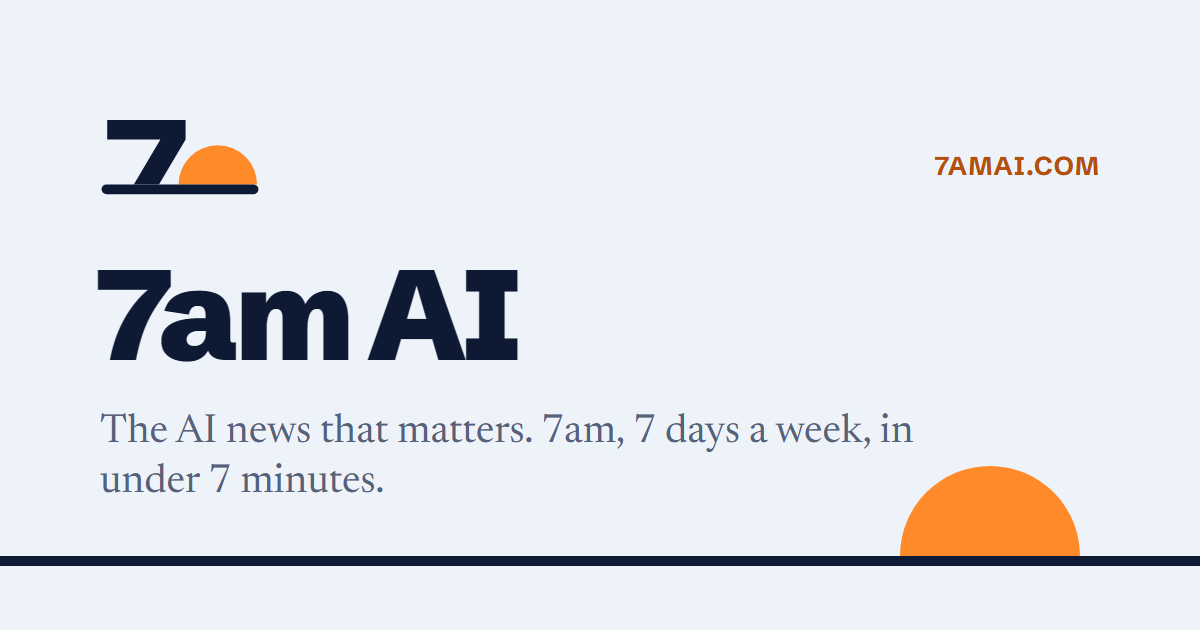
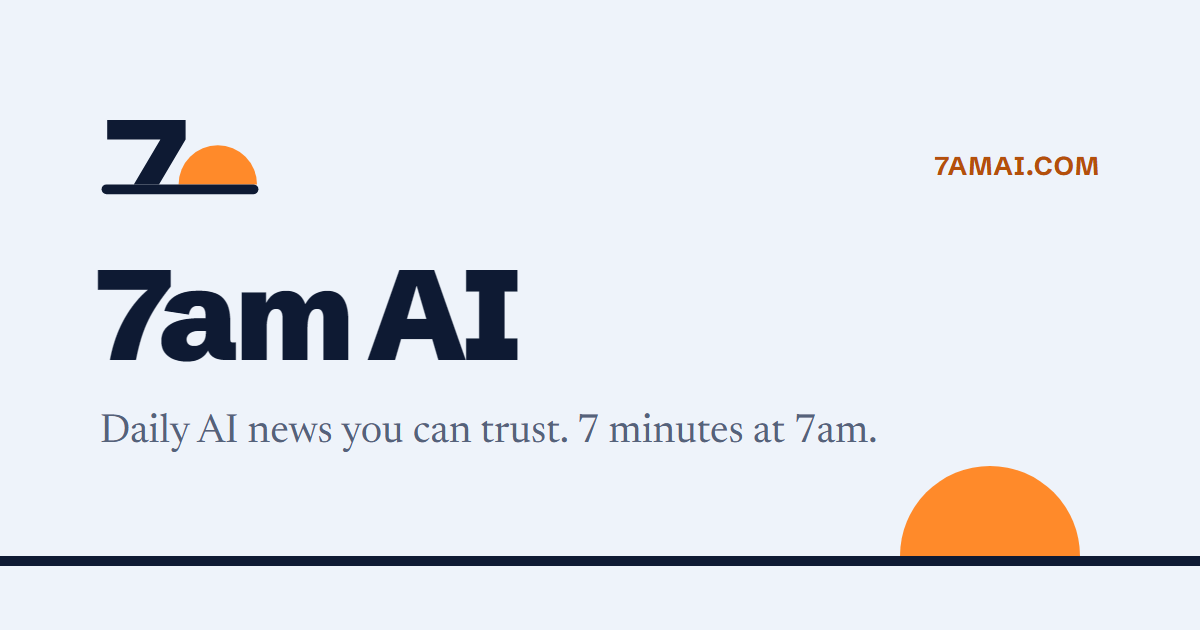
Ny one-liner: Daily AI news you can trust. 7 minutes at 7am.
Forside (signatur + overskrift + intro med status), titel og beskrivelse til Google på forsiden,
mailens bundlinje, delekort, velkomstsider og bekræftelsesmail. Låst i STRATEGI 1.1.

Changed region(s): [[0.0617, 0.6333, 0.7708, 0.7841]]

diff --git a/worker/src/index.js b/worker/src/index.js
@@ -194,8 +194,8 @@ async function verify(token, secret) {
 // --- bekræftelsesmailen (First Light, mail-sikre skrifttyper, natblå tekst på solorange) ---
 function confirmationMail(lang, link, site) {
   const t = lang === "da"
-    ? { subject: "Bekræft din tilmelding til 7am AI", h: "Bekræft din tilmelding", p: "Tryk på knappen, så får du de AI-nyheder, der betyder noget, kl. 7 hver morgen på under 7 minutter.", b: "Bekræft tilmelding", n: "Har du ikke bedt om det, kan du bare ignorere mailen. Linket virker i 3 døgn." }
-    : { subject: "Confirm your 7am AI subscription", h: "Confirm your subscription", p: "Tap the button and you will get the AI news that matters at 7am every morning, in under 7 minutes.", b: "Confirm subscription", n: "If you did not ask for this, just ignore this email. The link works for 3 days." };
+    ? { subject: "Bekræft din tilmelding til 7am AI", h: "Bekræft din tilmelding", p: "Tryk på knappen, så får du dagens AI-nyheder, du kan stole på, kl. 7 hver morgen på 7 minutter.", b: "Bekræft tilmelding", n: "Har du ikke bedt om det, kan du bare ignorere mailen. Linket virker i 3 døgn." }
+    : { subject: "Confirm your 7am AI subscription", h: "Confirm your subscription", p: "Tap the button and you will get daily AI news you can trust at 7am every morning, in 7 minutes.", b: "Confirm subscription", n: "If you did not ask for this, just ignore this email. The link works for 3 days." };
   const html = `<!DOCTYPE html><html><body style="margin:0;padding:0;background:#EEF3FA;"><table role="presentation" width="100%" cellpadding="0" cellspacing="0" style="background:#EEF3FA;"><tr><td align="center" style="padding:28px 12px;"><table role="presentation" width="100%" cellpadding="0" cellspacing="0" style="max-width:520px;background:#FFFFFF;border-radius:16px;font-family:'Helvetica Neue',Helvetica,Arial,sans-serif;color:#0E1A33;"><tr><td style="padding:26px 26px 8px;"><img src="${site}/assets/logo-mail.png" width="40" height="40" alt="" style="vertical-align:middle;border-radius:9px;"><span style="font-size:19px;font-weight:800;vertical-align:middle;margin-left:8px;">7am AI</span></td></tr><tr><td style="padding:12px 26px 26px;"><h1 style="font-size:24px;line-height:1.15;margin:0 0 10px;">${t.h}</h1><p style="font-family:Georgia,serif;font-size:16px;line-height:1.5;color:#55627A;margin:0 0 20px;">${t.p}</p><a href="${link}" style="display:inline-block;background:#FF8A2A;color:#0E1A33;text-decoration:none;font-weight:800;font-size:15px;padding:12px 22px;border-radius:999px;">${t.b}</a><p style="font-size:12px;line-height:1.5;color:#55627A;margin:20px 0 0;">${t.n}</p></td></tr></table></td></tr></table></body></html>`;
   const text = `${t.h}\n\n${t.p}\n\n${t.b}: ${link}\n\n${t.n}`;
   return { subject: t.subject, html, text };

diff --git a/.agent/email-template.html b/.agent/email-template.html
@@ -39,7 +39,7 @@
   <span style="font-size:13px;margin-left:12px;"><a href="{{DA_URL}}?ref=mail" style="color:#55627A;">Dansk udgave</a></span>
 </td></tr>
 </table>
-<p style="font-family:'Helvetica Neue',Helvetica,Arial,sans-serif;font-size:12px;color:#55627A;margin:16px 0 0;">7am AI · every day at 7am · under 7 minutes · <a href="{{SITE_URL}}?ref=mail" style="color:#55627A;">archive</a></p>
+<p style="font-family:'Helvetica Neue',Helvetica,Arial,sans-serif;font-size:12px;color:#55627A;margin:16px 0 0;">7am AI · Daily AI news you can trust. 7 minutes at 7am. · <a href="{{SITE_URL}}?ref=mail" style="color:#55627A;">archive</a></p>
 </td></tr>
 </table>
 </body>
@@ -75,7 +75,7 @@ fordi Gmail ikke viser SVG. Alt på solorange og guld har natblå tekst (#0E1A33
 {{NUMBER}}: kun på lead-historien og kun med et ægte nøgletal fra kilden, ellers tom:
   <div style="font-size:40px;line-height:1;font-weight:800;letter-spacing:-1px;color:#0E1A33;margin:10px 0 0;">{{TAL}}<span style="display:block;font-size:11px;letter-spacing:0.5px;text-transform:uppercase;color:#55627A;font-weight:700;margin-top:4px;">{{HVAD_TALLET_ER}}</span></div>
 {{KILDEMÆRKE}}: Official (SRC_COLOR #B4500A), Reported eller Unconfirmed (SRC_COLOR #55627A).
-Dansk mail: "Kort fortalt", "Derfor er det vigtigt", "Prøv det" / "Gør dette", "1 af 3", "Officiel/Rapporteret/Ubekræftet".
+Dansk mail: bundlinjen "7am AI · Dagens AI-nyheder, du kan stole på. 7 minutter kl. 7. · arkiv" (link til https://7amai.com/da/?ref=mail), "Kort fortalt", "Derfor er det vigtigt", "Prøv det" / "Gør dette", "1 af 3", "Officiel/Rapporteret/Ubekræftet".
 Har udgaven "Corrections", tilføjes de efter Paper of the day som en almindelig blok med overskriften "Corrections".
 
 "Today in 60 seconds" (øverst før første historie; dansk "Dagen på 60 sekunder"):

diff --git a/da/welcome/index.html b/da/welcome/index.html
@@ -11,7 +11,7 @@ sitemap: false
   <h1 data-s="expired" hidden>Linket er udløbet.</h1>
   <h1 data-s="invalid" hidden>Linket virker ikke.</h1>
   <h1 data-s="error" hidden>Noget gik galt hos os.</h1>
-  <p data-s="ok">Din første udgave kommer i morgen kl. 7: de AI-nyheder, der betyder noget, på under 7 minutter og med kilden bag hver påstand. Tilføj brief@7amai.com til dine kontakter, så den lander i indbakken.</p>
+  <p data-s="ok">Din første udgave kommer i morgen kl. 7: dagens AI-nyheder, du kan stole på, på 7 minutter og med kilden bag hver påstand. Tilføj brief@7amai.com til dine kontakter, så den lander i indbakken.</p>
   <p data-s="expired" hidden>Bekræftelseslinks virker i 3 døgn. Tilmeld dig igen på forsiden, så sender vi et nyt.</p>
   <p data-s="invalid" hidden>Linket kan være blevet klippet over. Tilmeld dig igen på forsiden, så sender vi et nyt.</p>
   <p data-s="error" hidden>Prøv linket igen om et par minutter. Virker det stadig ikke, så tilmeld dig igen på forsiden.</p>

diff --git a/welcome/index.html b/welcome/index.html
@@ -11,7 +11,7 @@ sitemap: false
   <h1 data-s="expired" hidden>That link has expired.</h1>
   <h1 data-s="invalid" hidden>That link does not work.</h1>
   <h1 data-s="error" hidden>Something went wrong on our side.</h1>
-  <p data-s="ok">Your first issue arrives tomorrow at 7am: the AI news that matters, in under 7 minutes, with the source behind every claim. Add brief@7amai.com to your contacts so it lands in your inbox.</p>
+  <p data-s="ok">Your first issue arrives tomorrow at 7am: daily AI news you can trust, in 7 minutes, with the source behind every claim. Add brief@7amai.com to your contacts so it lands in your inbox.</p>
   <p data-s="expired" hidden>Confirmation links work for 3 days. Sign up again on the front page and we will send a new one.</p>
   <p data-s="invalid" hidden>The link may have been cut off. Sign up again on the front page and we will send a new one.</p>
   <p data-s="error" hidden>Please try the link again in a few minutes. If it still fails, sign up again on the front page.</p>

diff --git a/_layouts/default.html b/_layouts/default.html
@@ -8,10 +8,12 @@
   {%- if page.noindex %}
   <meta name="robots" content="noindex" />
   {%- endif %}
+  {%- assign is_home = false -%}{%- if page.url == t.home -%}{%- assign is_home = true -%}{%- endif -%}
   {%- assign page_title = page.title | default: site.title -%}
   {%- assign page_desc = page.summary | default: t.tagline | strip_html | strip_newlines -%}
+  {%- if is_home -%}{%- assign page_title = t.home_title | append: ' · ' | append: site.title -%}{%- assign page_desc = t.home_desc -%}{%- endif -%}
   {%- assign canonical = page.url | replace: 'index.html', '' | absolute_url -%}
-  <title>{% if page.title %}{{ page.title }} · {% endif %}{{ site.title }}</title>
+  <title>{% if is_home %}{{ page_title }}{% elsif page.title %}{{ page.title }} · {{ site.title }}{% else %}{{ site.title }}{% endif %}</title>
   <meta name="description" content="{{ page_desc }}" />
   <link rel="canonical" href="{{ canonical }}" />
   {%- if page.other_lang_url %}

diff --git a/assets/style.css b/assets/style.css
@@ -49,6 +49,7 @@ h1, h2, h3 { font-family: var(--font-news); line-height: 1.12; text-wrap: balanc
 .site-foot { padding-block: 40px 56px; color: var(--mist); font-family: var(--font-news); font-size: 13px; border-top: 1px solid var(--line); margin-top: 64px; }
 
 .intro { padding-block: 36px 24px; }
+.intro .kicker { font-family: var(--font-news); font-size: 13px; font-weight: 800; letter-spacing: 0.08em; text-transform: uppercase; color: var(--sun-ink); margin: 0 0 10px; }
 .intro h1 { font-weight: 900; font-size: clamp(30px, 6vw, 46px); line-height: 1.02; letter-spacing: -0.035em; margin: 0 0 14px; }
 .intro p { color: var(--mist); margin: 0; max-width: 56ch; }
 

diff --git a/.agent/og-source.html b/.agent/og-source.html
@@ -14,7 +14,7 @@
 <body>
   <svg class="mark" viewBox="0 0 120 100" aria-hidden="true"><path d="M59 66 A28 28 0 0 1 115 66 Z" fill="#FF8A2A"/><polygon points="8,20 64,20 64,34 45,66 27,66 46,34 8,34" fill="#0E1A33"/><rect x="4" y="66" width="112" height="7" rx="3.5" fill="#0E1A33"/></svg>
   <h1>7am AI</h1>
-  <p>The AI news that matters. 7am, 7 days a week, in under 7 minutes.</p>
+  <p>Daily AI news you can trust. 7 minutes at 7am.</p>
   <div class="url">7AMAI.COM</div>
   <div class="sun"></div>
   <div class="hz"></div>

diff --git a/index.html b/index.html
@@ -5,6 +5,7 @@ other_lang_url: /da/
 ---
 {%- assign t = site.data.i18n.en -%}
 <section class="intro">
+  <p class="kicker">{{ t.kicker }}</p>
   <h1>{{ t.tagline }}</h1>
   <p>{{ t.intro }}</p>
   {% include signup.html lang="en" %}

diff --git a/da/index.html b/da/index.html
@@ -5,6 +5,7 @@ other_lang_url: /
 ---
 {%- assign t = site.data.i18n.da -%}
 <section class="intro">
+  <p class="kicker">{{ t.kicker }}</p>
   <h1>{{ t.tagline }}</h1>
   <p>{{ t.intro }}</p>
   {% include signup.html lang="da" %}

diff --git a/STRATEGI.md b/STRATEGI.md
@@ -57,6 +57,15 @@ holder ikke ved"; den rene er fremtidssikret. 70'er-solen må bruges til særlig
 - Skrift: Schibsted Grotesk (overskrifter, mærker, tal) og Newsreader (brødtekst).
 - Solorange og guld er kun til mærket, Big deal, officielle kilder og den primære knap.
 
+**One-liner (låst 19. okt. 2026, Jesper):** "Daily AI news you can trust. 7 minutes at 7am."
+Dansk: "Dagens AI-nyheder, du kan stole på. 7 minutter kl. 7." Signatur over den: "7am · 7 days ·
+7 minutes" / "Kl. 7 · 7 dage · 7 minutter". Bruges ens overalt: forsidens overskrift, sidens titel og
+beskrivelse i Google (søgeordet "daily AI news" forrest), mailens bundlinje, delekortet, velkomstsider,
+bekræftelsesmailen og profiler på sociale medier. Salgsværdier: tid (7 minutter kl. 7) og vished
+(kilder og kildemærker); status ("start the day ahead") i introen og i marketing. Identiteten er
+7-tallet, ikke "Today in 60 seconds" (det er en funktion i udgaven). Connection er fravalgt, indtil
+der er mange læsere. Mockup: https://claude.ai/artifact/7YgEtCuFvcMKfu7Qt8RdqA
+
 ### 1.2 "7am, wherever you are"
 
 Mailen sendes kl. 7 i læserens egen tidszone (Resend kan planlægge pr. modtager). Så holder
@@ -145,7 +154,7 @@ nyhedsbrevet åbnes for andre.)
 ## 6. Design (UI)
 
 - En identitet, man genkender på et halvt sekund: de fem faste kendetegn i afsnit 1.1.
-- **Forside:** mærket, "The AI news that matters, before your day begins.", tilmelding over
+- **Forside:** mærket, signaturen og one-lineren (afsnit 1.1), tilmelding over
   folden, dagens udgave som eksempel.
 - **Udgave-side:** de 7 punkter med signal-mærke, "So what", kilde og del-link pr. punkt.
 - **Mail:** mobil først, mørk tilstand, læsbar på 7 minutter, ét klik til hvert punkt.
